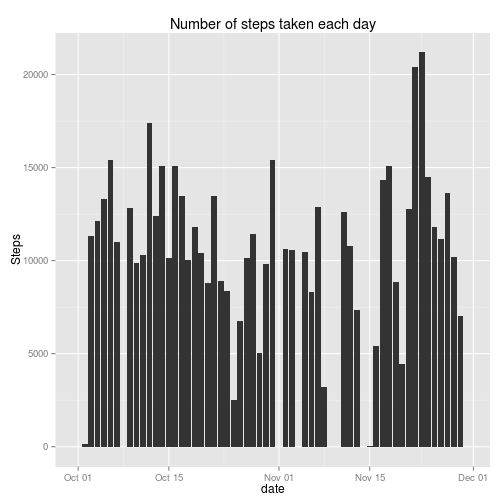
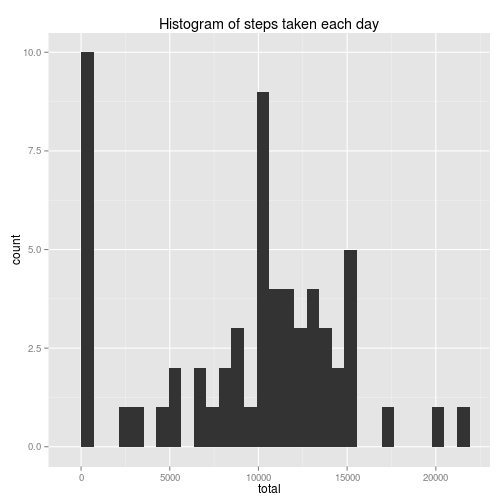
histograms

diff --git a/PA1_template.html b/PA1_template.html
@@ -229,13 +229,13 @@ head(ds1)
 
 <p>Histogram of the total number of steps taken each day.</p>
 
-<pre><code class="r">ds2 &lt;- ds1 %&gt;% group_by(date) %&gt;% summarize(freq = sum(steps, na.rm = TRUE))
+<pre><code class="r">ds2 &lt;- ds1 %&gt;% group_by(date) %&gt;% summarize(total = sum(steps, na.rm = TRUE))
 head(ds2)
 </code></pre>
 
 <pre><code>## Source: local data frame [6 x 2]
 ## 
-##         date  freq
+##         date total
 ## 1 2012-10-01     0
 ## 2 2012-10-02   126
 ## 3 2012-10-03 11352
@@ -244,15 +244,14 @@ head(ds2)
 ## 6 2012-10-06 15420
 </code></pre>
 
-<pre><code class="r">qplot(date, freq, data = ds2, geom = &quot;histogram&quot;, stat = &quot;identity&quot;,
-      ylab = &quot;Steps&quot;, main = &quot;Number of steps taken each day&quot;)
+<pre><code class="r">qplot(total, data = ds2, main = &quot;Histogram of steps taken each day&quot;)
 </code></pre>
 
[2 lines of base64/hex data omitted]
 
 <p>Mean and median total number of steps taken per day.</p>
 
-<pre><code class="r">ds2 %&gt;% summarize(avg = mean(freq, na.rm = TRUE), med = median(freq, na.rm = TRUE))
+<pre><code class="r">ds2 %&gt;% summarize(avg = mean(total, na.rm = TRUE), med = median(total, na.rm = TRUE))
 </code></pre>
 
 <pre><code>## Source: local data frame [1 x 2]
@@ -347,13 +346,13 @@ head(ds7)
 <p>Histogram of the total number of steps taken each day</p>
 
 <pre><code class="r">## Number of steps taken each day
-ds8 &lt;- ds7 %&gt;% group_by(date) %&gt;% summarize(freq = sum(steps_med))
+ds8 &lt;- ds7 %&gt;% group_by(date) %&gt;% summarize(total = sum(steps_med))
 head(ds8)
 </code></pre>
 
 <pre><code>## Source: local data frame [6 x 2]
 ## 
-##         date  freq
+##         date total
 ## 1 2012-10-01  1141
 ## 2 2012-10-02   126
 ## 3 2012-10-03 11352
@@ -362,15 +361,14 @@ head(ds8)
 ## 6 2012-10-06 15420
 </code></pre>
 
-<pre><code class="r">qplot(date, freq, data = ds8, geom = &quot;histogram&quot;, stat = &quot;identity&quot;,
-      ylab = &quot;Steps&quot;, main = &quot;Number of steps taken each day&quot;)
+<pre><code class="r">qplot(total, data = ds8, main = &quot;Histogram of steps taken each day&quot;)
 </code></pre>
 
[2 lines of base64/hex data omitted]
 
 <p>Mean and median total number of steps taken per day.</p>
 
-<pre><code class="r">ds8 %&gt;% summarize(avg = mean(freq), med = median(freq))
+<pre><code class="r">ds8 %&gt;% summarize(avg = mean(total), med = median(total))
 </code></pre>
 
 <pre><code>## Source: local data frame [1 x 2]

diff --git a/PA1_template.md b/PA1_template.md
@@ -37,14 +37,14 @@ head(ds1)
 Histogram of the total number of steps taken each day.
 
 ```r
-ds2 <- ds1 %>% group_by(date) %>% summarize(freq = sum(steps, na.rm = TRUE))
+ds2 <- ds1 %>% group_by(date) %>% summarize(total = sum(steps, na.rm = TRUE))
 head(ds2)
 ```
 
 ```
 ## Source: local data frame [6 x 2]
 ## 
-##         date  freq
+##         date total
 ## 1 2012-10-01     0
 ## 2 2012-10-02   126
 ## 3 2012-10-03 11352
@@ -54,8 +54,7 @@ head(ds2)
 ```
 
 ```r
-qplot(date, freq, data = ds2, geom = "histogram", stat = "identity",
-      ylab = "Steps", main = "Number of steps taken each day")
+qplot(total, data = ds2, main = "Histogram of steps taken each day")
 ```
 
 ![plot of chunk hist1](figure/hist1-1.png) 
@@ -63,7 +62,7 @@ qplot(date, freq, data = ds2, geom = "histogram", stat = "identity",
 Mean and median total number of steps taken per day.
 
 ```r
-ds2 %>% summarize(avg = mean(freq, na.rm = TRUE), med = median(freq, na.rm = TRUE))
+ds2 %>% summarize(avg = mean(total, na.rm = TRUE), med = median(total, na.rm = TRUE))
 ```
 
 ```
@@ -172,14 +171,14 @@ Histogram of the total number of steps taken each day
 
 ```r
 ## Number of steps taken each day
-ds8 <- ds7 %>% group_by(date) %>% summarize(freq = sum(steps_med))
+ds8 <- ds7 %>% group_by(date) %>% summarize(total = sum(steps_med))
 head(ds8)
 ```
 
 ```
 ## Source: local data frame [6 x 2]
 ## 
-##         date  freq
+##         date total
 ## 1 2012-10-01  1141
 ## 2 2012-10-02   126
 ## 3 2012-10-03 11352
@@ -189,8 +188,7 @@ head(ds8)
 ```
 
 ```r
-qplot(date, freq, data = ds8, geom = "histogram", stat = "identity",
-      ylab = "Steps", main = "Number of steps taken each day")
+qplot(total, data = ds8, main = "Histogram of steps taken each day")
 ```
 
 ![plot of chunk hist2](figure/hist2-1.png) 
@@ -198,7 +196,7 @@ qplot(date, freq, data = ds8, geom = "histogram", stat = "identity",
 Mean and median total number of steps taken per day.
 
 ```r
-ds8 %>% summarize(avg = mean(freq), med = median(freq))
+ds8 %>% summarize(avg = mean(total), med = median(total))
 ```
 
 ```
